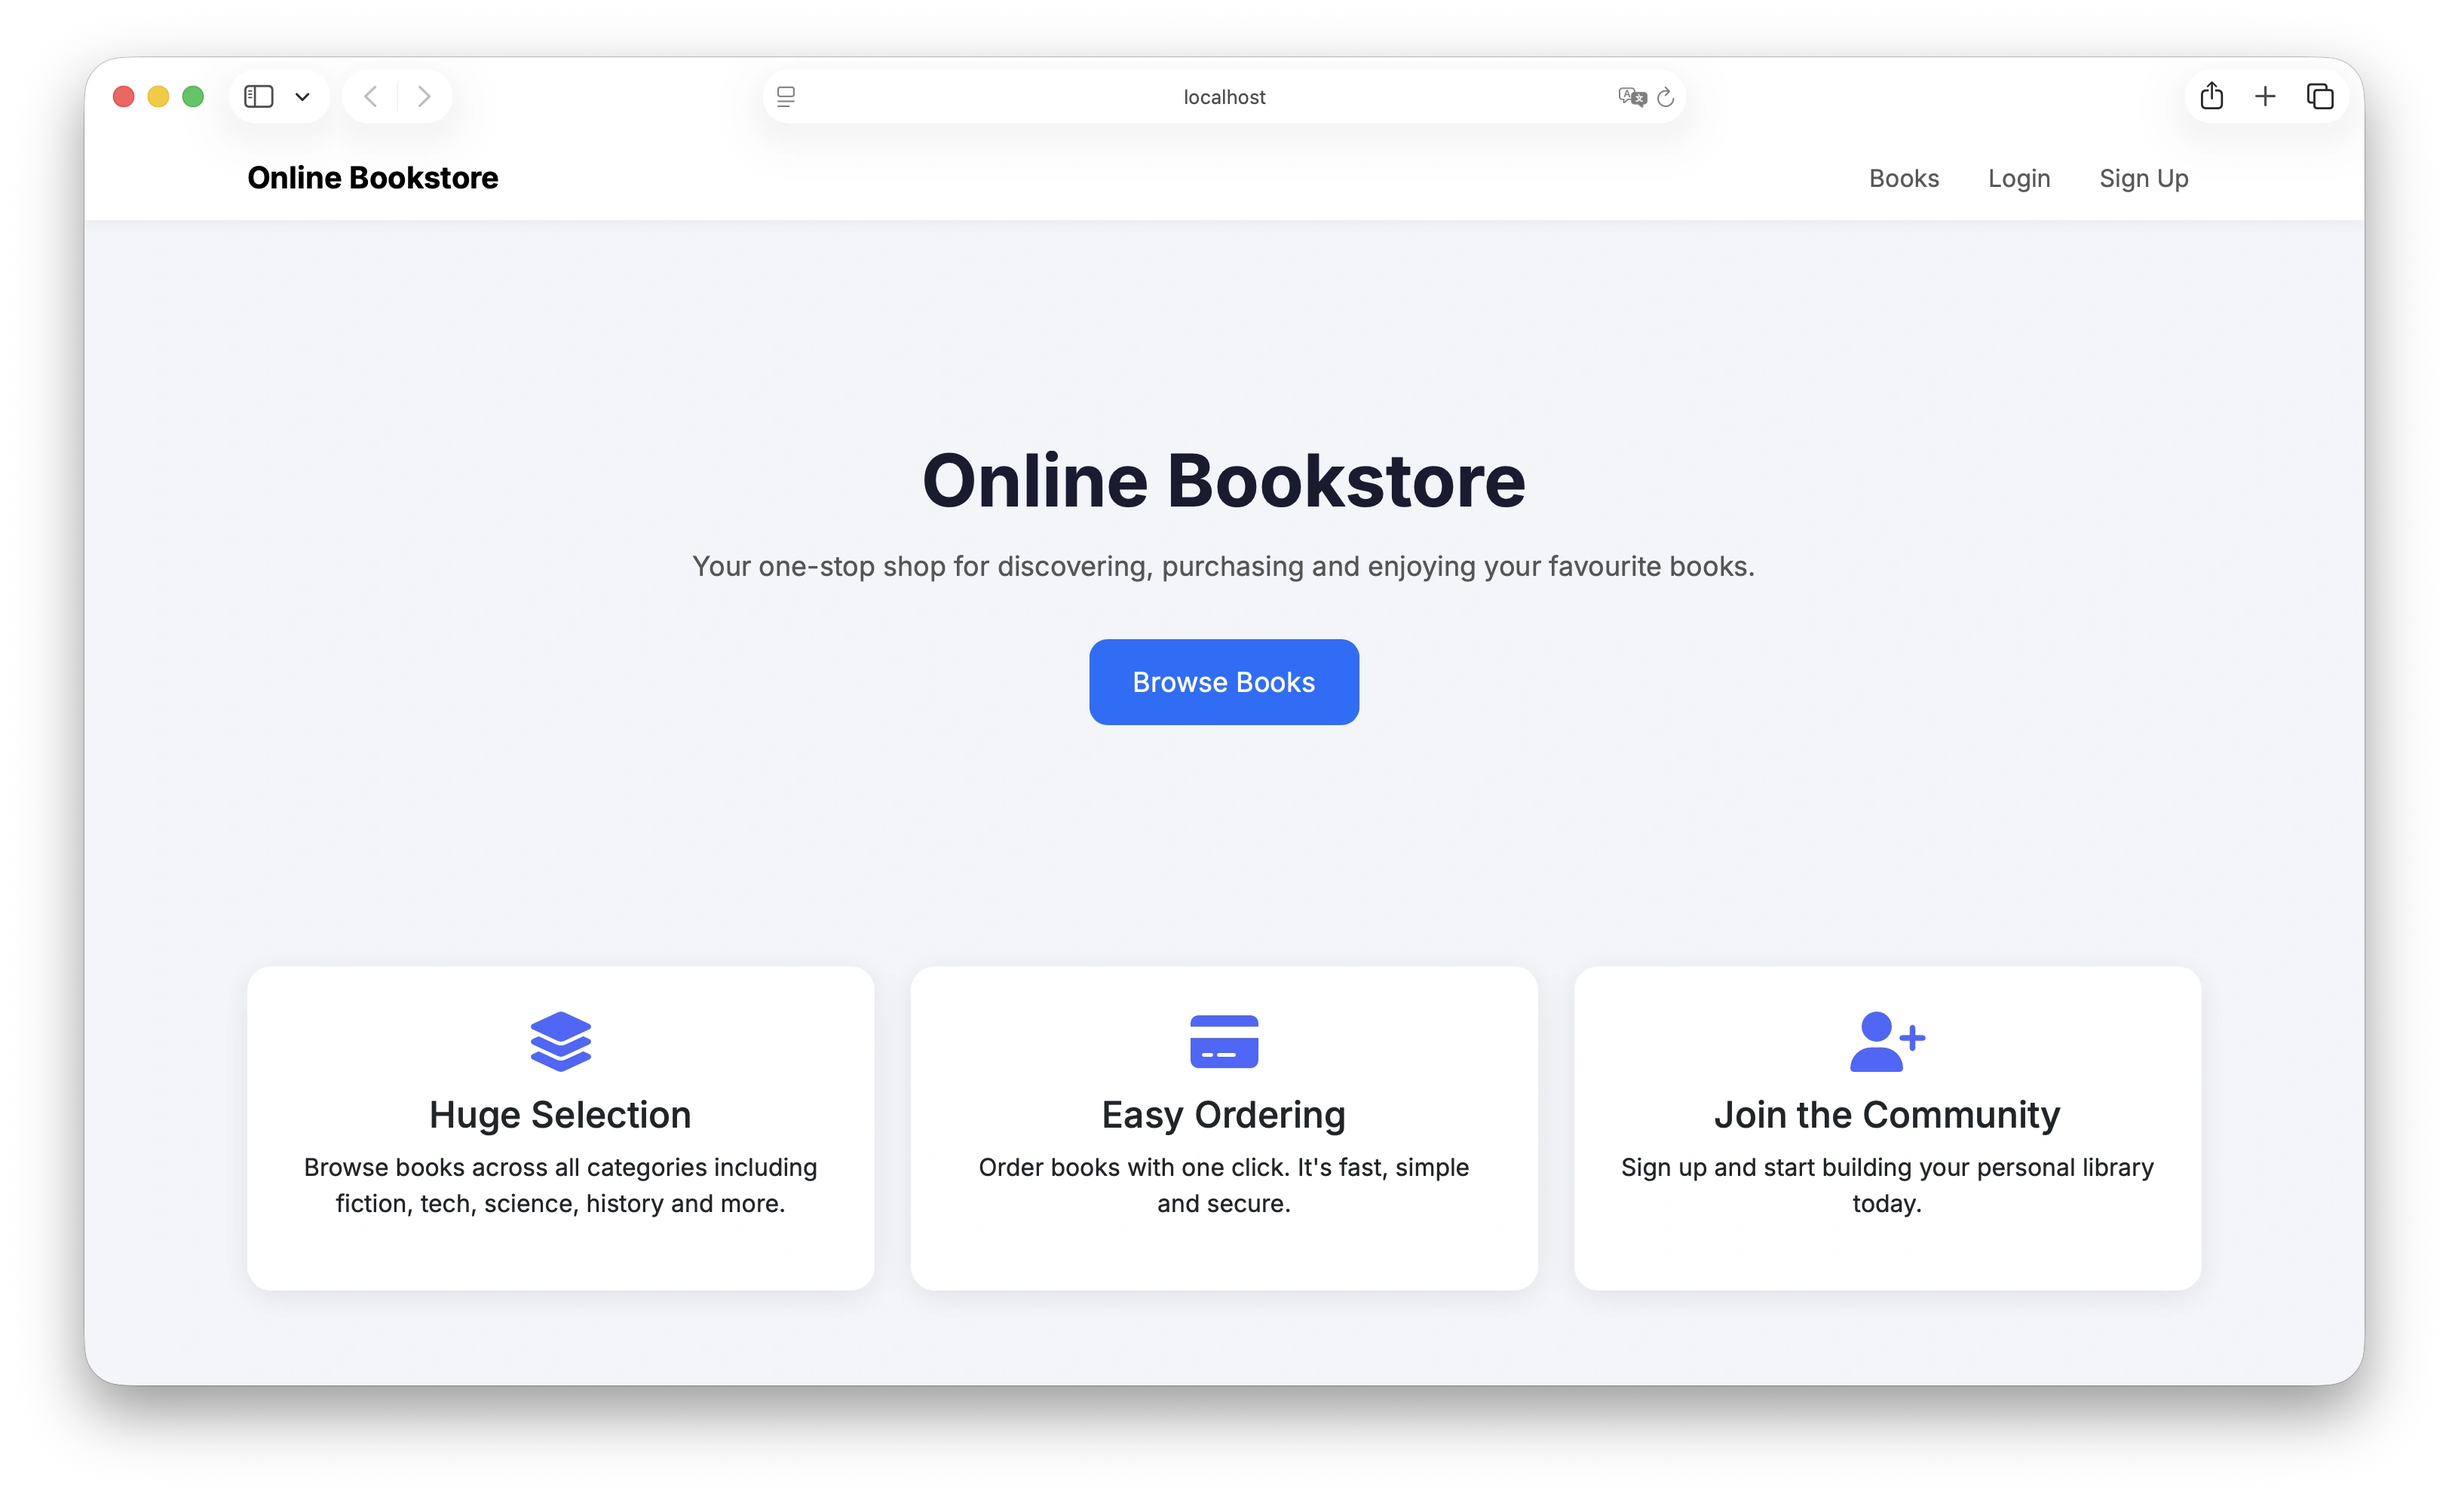
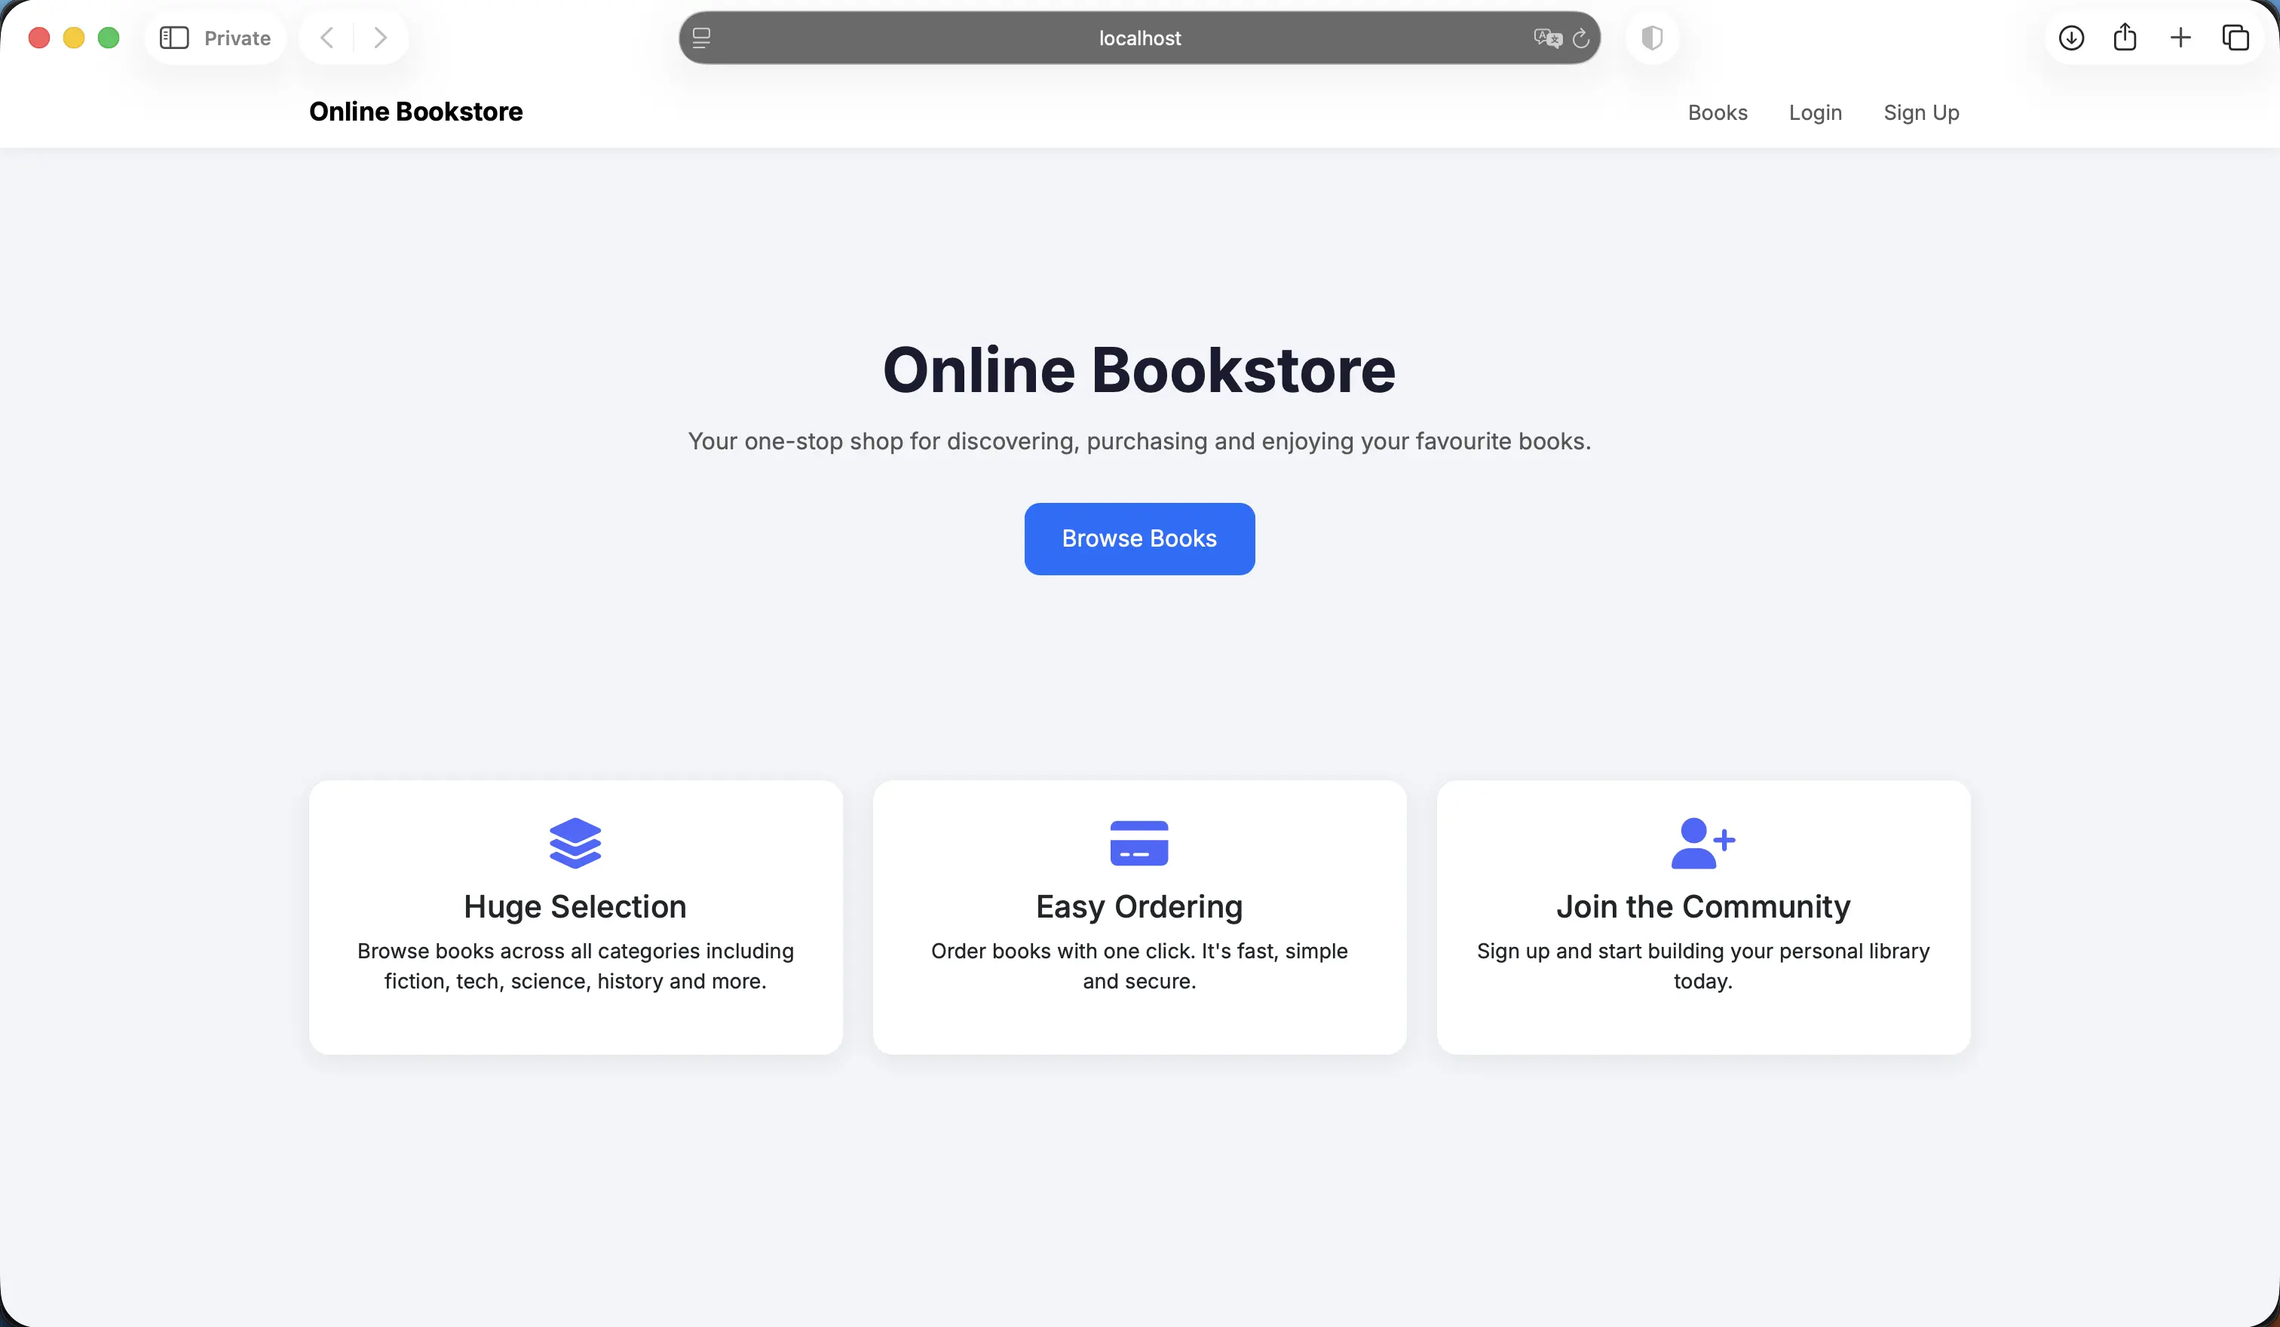
chore: update projects section photos

diff --git a/frontend/src/components/sections/ProjectsSection.tsx b/frontend/src/components/sections/ProjectsSection.tsx
@@ -9,11 +9,16 @@ export const ProjectsSection = () => {
             title="Projects"
             icon={FolderKanban}
         >
-            <div className="grid items-start gap-5 lg:grid-cols-3">
+            <div className="grid gap-5 lg:grid-cols-3">
                 {projects.map((project, index) => (
-                    <Reveal key={project.title} direction={index % 2 === 0 ? 'up' : 'scale'} delay={160 + index * 110}>
-                        <article className="glass-panel flex flex-col overflow-hidden">
-                            <div className="relative overflow-hidden rounded-[1.5rem]">
+                    <Reveal
+                        key={project.title}
+                        className="h-full"
+                        direction={index % 2 === 0 ? 'up' : 'scale'}
+                        delay={160 + index * 110}
+                    >
+                        <article className="glass-panel flex h-full flex-col overflow-hidden">
+                            <div className="relative overflow-hidden rounded-t-[1.5rem]">
                                 <img
                                     src={project.image}
                                     alt={`${project.title} preview`}
@@ -23,7 +28,7 @@ export const ProjectsSection = () => {
                                     className="absolute inset-0 bg-[linear-gradient(180deg,transparent_35%,rgba(7,25,51,0.5)_100%)]"/>
                             </div>
 
-                            <div className="flex flex-col p-6">
+                            <div className="flex flex-1 flex-col p-6">
                                 <div className="flex flex-wrap gap-2">
                                     {project.tags.map((tag) => (
                                         <span key={tag}
@@ -40,7 +45,7 @@ export const ProjectsSection = () => {
                                     href={project.href}
                                     target="_blank"
                                     rel="noreferrer"
-                                    className="mt-6 inline-flex items-center gap-2 text-sm font-medium text-sky-100 transition hover:text-white"
+                                    className="mt-auto pt-6 inline-flex items-center gap-2 text-sm font-medium text-sky-100 transition hover:text-white"
                                 >
                                     View repository
                                     <ExternalLink className="h-4 w-4"/>

diff --git a/frontend/src/data/siteContent.ts b/frontend/src/data/siteContent.ts
@@ -63,28 +63,28 @@ export const socialLinks: SocialLink[] = [
 
 export const projects: Project[] = [
     {
-        title: 'Flappy Bird',
+        title: 'Shared Recipe Book',
         description:
-            'A Java arcade game focused on responsive controls, polished collision behavior, and score-driven replayability.',
+            'A full-stack recipe platform with authentication, collections, reviews, and recipe management built with React, Tailwind CSS, Java and SQL.',
         href: 'https://github.com/longknguyen/flappy-bird',
-        image: '/assets/images/projects/flappy-bird/flappy-preview.webp',
-        tags: ['Java', 'Game Development', 'OOP']
+        image: '/assets/images/projects/shared-recipe-book/full-preview.webp',
+        tags: ['React', 'Tailwind', 'SQL', 'Spring Boot']
     },
     {
         title: 'Online Bookstore',
         description:
-            'A database-backed bookstore built with separate customer and admin flows, persistent book management, and JDBC-powered storage.',
+            'A database-backed bookstore built with separate customer and admin flows, book management and 3NF schemas.',
         href: 'https://github.com/longknguyen/online-book-store',
-        image: '/assets/images/projects/bookstore/bookstorehome.webp',
-        tags: ['Java', 'JDBC', 'HTML', 'CSS']
+        image: '/assets/images/projects/bookstore/bookstoreindex.webp',
+        tags: ['Java','Spring Boot', 'HTML', 'CSS']
     },
     {
         title: 'Personal Website',
         description:
-            'A portfolio rebuilt to be more maintainable with typed components, reusable sections, and a polished frontend architecture.',
+            'A portfolio rebuilt to be more maintainable with typed components, reusable sections and a restructured frontend architecture.',
         href: 'https://github.com/longknguyen/longknguyen.github.io',
         image: '/assets/images/projects/portfolio/personal-web-prev.webp',
-        tags: ['React', 'TypeScript', 'Tailwind', 'Spring Boot']
+        tags: ['React', 'TypeScript', 'Tailwind ', 'Spring Boot']
     }
 ];
 
@@ -92,7 +92,7 @@ export const skillGroups: SkillGroup[] = [
     {
         title: 'Backend',
         icon: Code2,
-        items: ['Java', 'Python', 'C', 'SQL', 'Spring Boot']
+        items: ['Java', 'SQL', 'Spring Boot', 'Python', 'C']
     },
     {
         title: 'Frontend',
